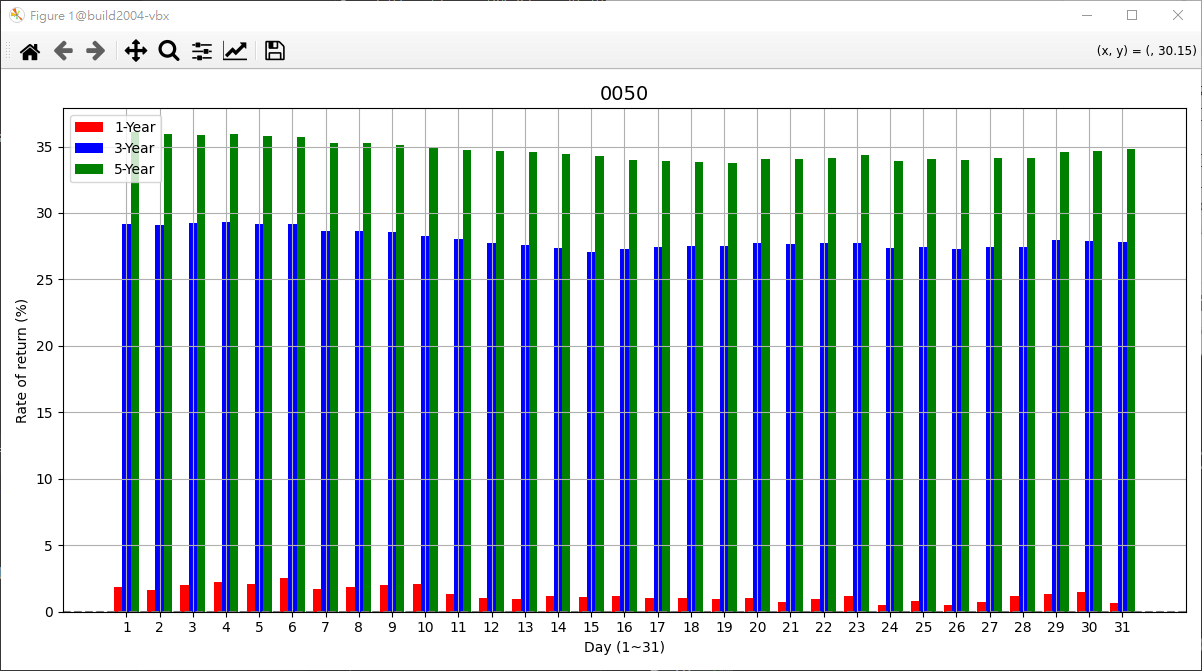
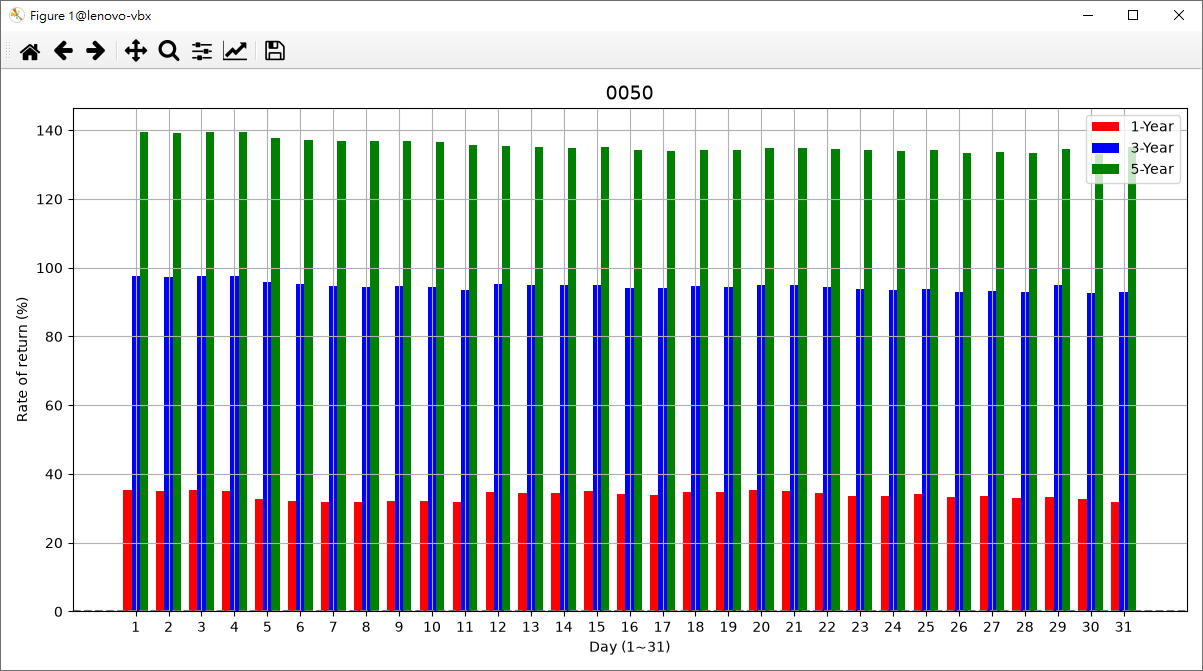
rename stockx_123.py -> stockx_backtesting_123.py and stockx_api.py -> stockx_backtesting_api.py

diff --git a/stockx_backtesting_123.py b/stockx_backtesting_123.py
@@ -20,7 +20,7 @@
 #import os, sys, errno, getopt, signal, time, io
 #from time import sleep
 
-from stockx_api import *
+from stockx_backtesting_api import *
 
 stock_no = '0050'           # 股票代碼
 
@@ -53,25 +53,25 @@ def app_quit_set(mode):
 def app_start():
 	argsX_dump(argsX)
 
-	stockx_mgr = stockx_ctx()
-	app_watch(stockx_mgr)
+	stockx_backtesting_mgr = stockx_backtesting_ctx()
+	app_watch(stockx_backtesting_mgr)
 
-	stockx_mgr.start( argsX )
+	stockx_backtesting_mgr.start( argsX )
 	if ( argsX_get(argsX, "verbose") == True ) and (app_quit_get()==0):
-		stockx_mgr.history_display_on_screen()
+		stockx_backtesting_mgr.history_display_on_screen()
 
 	if (app_quit_get()==0):
-		stockx_mgr.history_save_to_csv()
+		stockx_backtesting_mgr.history_save_to_csv()
 
-	stockx_mgr.buy_prices_helper()
+	stockx_backtesting_mgr.buy_prices_helper()
 
-	stockx_mgr.buy_return_display_on_screen()
-
-	if ( argsX_get(argsX, "text") == False ) and (app_quit_get()==0):
-		stockx_mgr.buy_return_plot_lines_on_screen()
+	stockx_backtesting_mgr.buy_return_display_on_screen()
 
 	if ( argsX_get(argsX, "text") == False ) and (app_quit_get()==0):
-		stockx_mgr.buy_return_plot_bars_on_screen()
+		stockx_backtesting_mgr.buy_return_plot_lines_on_screen()
+
+	if ( argsX_get(argsX, "text") == False ) and (app_quit_get()==0):
+		stockx_backtesting_mgr.buy_return_plot_bars_on_screen()
 
 def app_watch(app_ctx):
 	global appX_list

diff --git a/stockx_backtesting_api.py b/stockx_backtesting_api.py
@@ -38,7 +38,7 @@ import numpy as np
 
 stock_splits = [ ("0050", pd.Timestamp("2025-06-18"), 1/4) ]
 
-class stockx_ctx(pythonX9):
+class stockx_backtesting_ctx(pythonX9):
 
 	def is_otc_stock(self, stock_no, year, month):
 		"""判斷股票是否是櫃買（OTC）"""
@@ -380,7 +380,7 @@ class stockx_ctx(pythonX9):
 		if ( isPYTHON(PYTHON_V3) ):
 			super().__init__(**kwargs)
 		else:
-			super(stockx_ctx, self).__init__(**kwargs)
+			super(stockx_backtesting_ctx, self).__init__(**kwargs)
 
 		self._kwargs = kwargs
 		self.ctx_init()
@@ -417,8 +417,8 @@ class stockx_ctx(pythonX9):
 
 		#self.buy_prices_helper()
 
-#stockx_mgr = stockx_ctx("HelloStockX")
-#stockx_mgr.start()
-#stockx_mgr.display_on_screen()
-#stockx_mgr.save_to_csv()
+#stockx_backtesting_mgr = stockx_backtesting_ctx("HelloStockX")
+#stockx_backtesting_mgr.start()
+#stockx_backtesting_mgr.display_on_screen()
+#stockx_backtesting_mgr.save_to_csv()
 

diff --git a/README.md b/README.md
@@ -26,7 +26,7 @@ Do nothing
 ```
 # 5. Example or Usage
 
-#### - dummy_123 - a template in python.
+## - dummy_123.py - a template in python.
 ```mermaid
 flowchart LR
 	Start([Start])
@@ -73,7 +73,7 @@ $ ./dummy_123.py -d4
 [8465/8465] dummy_123.py|main:0103 - Bye-Bye !!! (is_quit: 1)
 
 ```
-#### - httpd_123 - a simple Web Server
+## - httpd_123.py - a simple Web Server
 
 >負責接收檔案，並將內容存至 ./tmp。
 >
@@ -118,7 +118,7 @@ $ curl -d @endianness.jpg http://192.168.56.104:8087
 $ gimp /tmp/HTTPServer_ctx-3272277516
 ```
 
-#### - multicast_123.py - a multicast example.
+## - multicast_123.py - a multicast example.
 
 ```bash
 $ make multicast_123.py
@@ -152,7 +152,7 @@ $ ./multicast_123.py -d4
 
 ```
 
-#### - queuex_123.py - a queue and stack example.
+## - queuex_123.py - a queue and stack example.
 
 >網路都只會介紹什麼是 queue，但是實際操作經驗零。這邊給你一個很好範例，特別是當你要操作TTY或是一些序列設備時，就會發現這有多好用。
 
@@ -217,7 +217,7 @@ $ ./queuex_123.py -d4
 
 ```
 
-#### - statex_123.py - state machine example.
+## - statex_123.py - state machine example.
 
 ```bash
 $ make statex_123.py
@@ -249,14 +249,14 @@ $ ./statex_123.py -d4
 
 ```
 
-#### - stockx_123.py - 利用股票的收盤價計算每月存股的報酬率
+## - stockx_backtesting_123.py - 利用股票的收盤價計算每月存股的報酬率
 
 > 先從`臺灣證券交易所/證券櫃檯買賣中心`取得歷史收盤價，計算`日日存`的報酬率
 
 > 分割計算
 >
 > ```python
-> # stockx_api.py
+> # stockx_backtesting_api.py
 > 
 > stock_splits = [ ("0050", pd.Timestamp("2025-06-18"), 1/4) ]
 > ```
@@ -264,7 +264,7 @@ $ ./statex_123.py -d4
 > 短、中、長期報酬率設定
 >
 > ```python
-> # stockx_123.py
+> # stockx_backtesting_123.py
 > 
 > argsX = {
 > 	"stock_no": stock_no
@@ -281,7 +281,7 @@ $ ./statex_123.py -d4
 > ```
 >
 > ```python
-> # stockx_api.py
+> # stockx_backtesting_api.py
 > 
 > 	def parse_args(self, args):
 > 		...
@@ -291,8 +291,8 @@ $ ./statex_123.py -d4
 > ```
 
 ```bash
-$ ./stockx_123.py
-Usage: ./stockx_123.py <options...>
+$ ./stockx_backtesting_123.py
+Usage: ./stockx_backtesting_123.py <options...>
   -h, --help
   -d, --debug level
   -s, --stock Stock symbol
@@ -305,55 +305,55 @@ Usage: ./stockx_123.py <options...>
 ```
 
 ```bash
-$ make stockx_123.py
+$ make stockx_backtesting_123.py
 or
-$ ./stockx_123.py -d4 -y 10 -s 0050
-[7045/140650796029760] stockx_123.py|argsX_dump:0053 - {'stock_no': '0050', 'date_range': [2015, 2016, 2017, 2018, 2019, 2020, 2021, 2022, 2023, 2024, 2025], 'year_ago': 10, 'renew': False, 'verbose': False}
-[7045/140650796029760] stockx_api.py|history_load_from_csv:0318 - Found !!! (./stock/0050_history.csv), Loading ...
+$ ./stockx_backtesting_123.py -d4 -y 10 -s 0050
+[8540/140536377751360] pythonX9.py|argsX_dump:0057 - {'stock_no': '0050', 'year_ago': 10, 'delta': 5, 'buy_short': 1, 'buy_medium': 3, 'buy_long': 5, 'history_folder': './stock', 'renew': False, 'text': False, 'verbose': False}
+[8540/140536377751360] stockx_backtesting_api.py|history_load_from_csv:0329 - Found !!! (./stock/0050_history.csv), Loading ...
+[0050] (stock_last_date：2026-09-09, delta.days: 2, stock_delta_days: 5)  Completed !!!
 Day 1-Year                  3-Year                  5-Year                  Sum
     (%)    count  average   (%)    count  average   (%)    count  average   (%)
-1   1.87   12     185.19    29.14  36     146.08    36.07  60     138.64    67.08
-2   1.63   12     185.62    29.09  36     146.13    35.92  60     138.79    66.64
-3   1.98   12     185.00    29.21  36     146.01    35.9   60     138.81    67.09
-4   2.24   12     184.51    29.33  36     145.87    35.93  60     138.79    67.50
-5   2.07   12     184.82    29.19  36     146.03    35.8   60     138.91    67.06
-6   2.52   12     184.02    29.16  36     146.06    35.72  60     139.00    67.40
-7   1.72   12     185.45    28.64  36     146.65    35.28  60     139.45    65.64
-8   1.88   12     185.17    28.63  36     146.66    35.28  60     139.45    65.79
-9   2.01   12     184.93    28.56  36     146.74    35.15  60     139.58    65.72
-10  2.06   12     184.85    28.25  36     147.10    34.98  60     139.76    65.29
-11  1.34   12     186.16    28.02  36     147.37    34.73  60     140.02    64.09
-12  1.02   12     186.75    27.76  36     147.65    34.64  60     140.11    63.42
-13  0.93   12     186.91    27.58  36     147.87    34.62  60     140.13    63.13
-14  1.18   12     186.45    27.38  36     148.11    34.43  60     140.33    62.99
-15  1.09   12     186.62    27.1   36     148.42    34.27  60     140.50    62.46
-16  1.19   13     186.43    27.3   37     148.19    34.0   60     140.78    62.49
-17  1.05   13     186.69    27.41  37     148.07    33.93  60     140.86    62.39
-18  1.07   13     186.65    27.49  37     147.97    33.83  60     140.97    62.39
-19  0.97   13     186.85    27.48  37     147.98    33.75  60     141.05    62.20
-20  1.05   13     186.68    27.74  37     147.68    34.04  60     140.74    62.83
-21  0.76   13     187.23    27.65  37     147.79    34.08  60     140.70    62.49
-22  0.94   13     186.89    27.71  37     147.72    34.11  60     140.67    62.76
-23  1.18   13     186.46    27.77  37     147.65    34.36  60     140.41    63.31
-24  0.51   13     187.69    27.39  37     148.09    33.93  60     140.86    61.83
-25  0.78   13     187.20    27.41  37     148.06    34.09  60     140.69    62.28
-26  0.47   13     187.76    27.26  37     148.24    33.99  60     140.79    61.72
-27  0.72   13     187.30    27.41  37     148.07    34.15  60     140.62    62.28
-28  1.16   13     186.48    27.47  37     147.99    34.1   60     140.68    62.73
-29  1.3    12     186.23    27.93  35     147.46    34.56  56     140.20    63.79
-30  1.48   12     185.90    27.9   34     147.49    34.7   55     140.05    64.08
-31  0.67   7      187.40    27.85  21     147.55    34.85  35     139.89    63.37
-(stock_no: 0050, final_price: 188.65)
-[7045/140650796029760] stockx_api.py|buy_return_plot_lines_on_screen:0233 - Plotting lines ...
-[7045/140650796029760] stockx_api.py|buy_return_plot_bars_on_screen:0264 - Plotting ...
-[7045/140650796029760] stockx_123.py|main:0174 - Bye-Bye !!! (app_quit_get: 1)
+1   35.47  12     80.94     97.68  36     55.47     139.53 60     45.78     272.68
+2   35.02  12     81.21     97.29  36     55.58     139.26 60     45.83     271.57
+3   35.19  12     81.11     97.49  36     55.52     139.48 60     45.79     272.16
+4   35.09  12     81.17     97.47  36     55.53     139.46 60     45.79     272.02
+5   32.69  12     82.63     95.71  36     56.03     137.84 60     46.10     266.24
+6   32.11  12     83.00     95.31  36     56.14     137.28 60     46.21     264.70
+7   31.98  12     83.08     94.59  36     56.35     136.87 60     46.29     263.44
+8   31.74  12     83.23     94.33  36     56.42     136.73 60     46.32     262.80
+9   32.23  12     82.92     94.58  36     56.35     136.95 60     46.27     263.76
+10  32.07  12     83.03     94.3   36     56.43     136.48 60     46.37     262.85
+11  31.73  12     83.24     93.53  36     56.66     135.83 60     46.50     261.09
+12  34.77  13     81.36     95.31  37     56.14     135.32 60     46.60     265.40
+13  34.45  13     81.55     94.87  37     56.27     135.0  60     46.66     264.32
+14  34.56  13     81.49     94.88  37     56.27     134.85 60     46.69     264.29
+15  34.92  13     81.27     95.01  37     56.23     134.97 60     46.66     264.90
+16  34.29  13     81.65     94.22  37     56.46     134.18 60     46.82     262.69
+17  33.9   13     81.89     93.97  37     56.53     133.86 60     46.89     261.73
+18  34.72  13     81.39     94.6   37     56.35     134.3  60     46.80     263.62
+19  34.78  13     81.35     94.44  37     56.39     134.25 60     46.81     263.47
+20  35.36  13     81.00     95.09  37     56.21     134.96 60     46.67     265.41
+21  35.11  13     81.15     94.89  37     56.26     134.82 60     46.70     264.82
+22  34.5   13     81.52     94.52  37     56.37     134.6  60     46.74     263.62
+23  33.57  13     82.09     93.93  37     56.54     134.15 60     46.83     261.65
+24  33.69  13     82.02     93.62  37     56.63     133.88 60     46.88     261.19
+25  34.2   13     81.70     93.95  37     56.53     134.23 60     46.81     262.38
+26  33.17  13     82.34     92.86  37     56.85     133.37 60     46.99     259.40
+27  33.55  13     82.10     93.28  37     56.73     133.8  60     46.90     260.63
+28  33.01  13     82.44     93.02  37     56.81     133.45 60     46.97     259.48
+29  33.41  12     82.19     94.92  35     56.25     134.45 56     46.77     262.78
+30  32.84  12     82.54     92.55  34     56.95     133.17 55     47.03     258.56
+31  31.9   7      83.13     92.98  21     56.82     135.08 35     46.64     259.96
+(stock_no: 0050, final_price: 109.65)
+[8540/140536377751360] stockx_backtesting_api.py|buy_return_plot_lines_on_screen:0244 - Plotting lines ...
+
 ```
 
 ![buy_return_plot_lines_on_screen](./images/buy_return_plot_lines_on_screen.png)
 
 ![buy_return_plot_bars_on_screen](./images/buy_return_plot_bars_on_screen.png)
 
-#### - sysinfo_123.py - 查找主機系統資訊，每5秒刷新畫面
+## - sysinfo_123.py - 查找主機系統資訊，每5秒刷新畫面
 
 ```bash
 $ make sysinfo_123.py
@@ -401,7 +401,7 @@ q[8510/8511] sysinfo_api.py|threadx_handler:0173 - Bye-Bye !!!
 [8510/8510] sysinfo_123.py|main:0107 - Bye-Bye !!! (is_quit: 1)
 
 ```
-#### - youtube_123.py - a streamlink example.
+## - youtube_123.py - a streamlink example.
 
 >使用 streamlink  api 方式下載 youtube 影片
 
